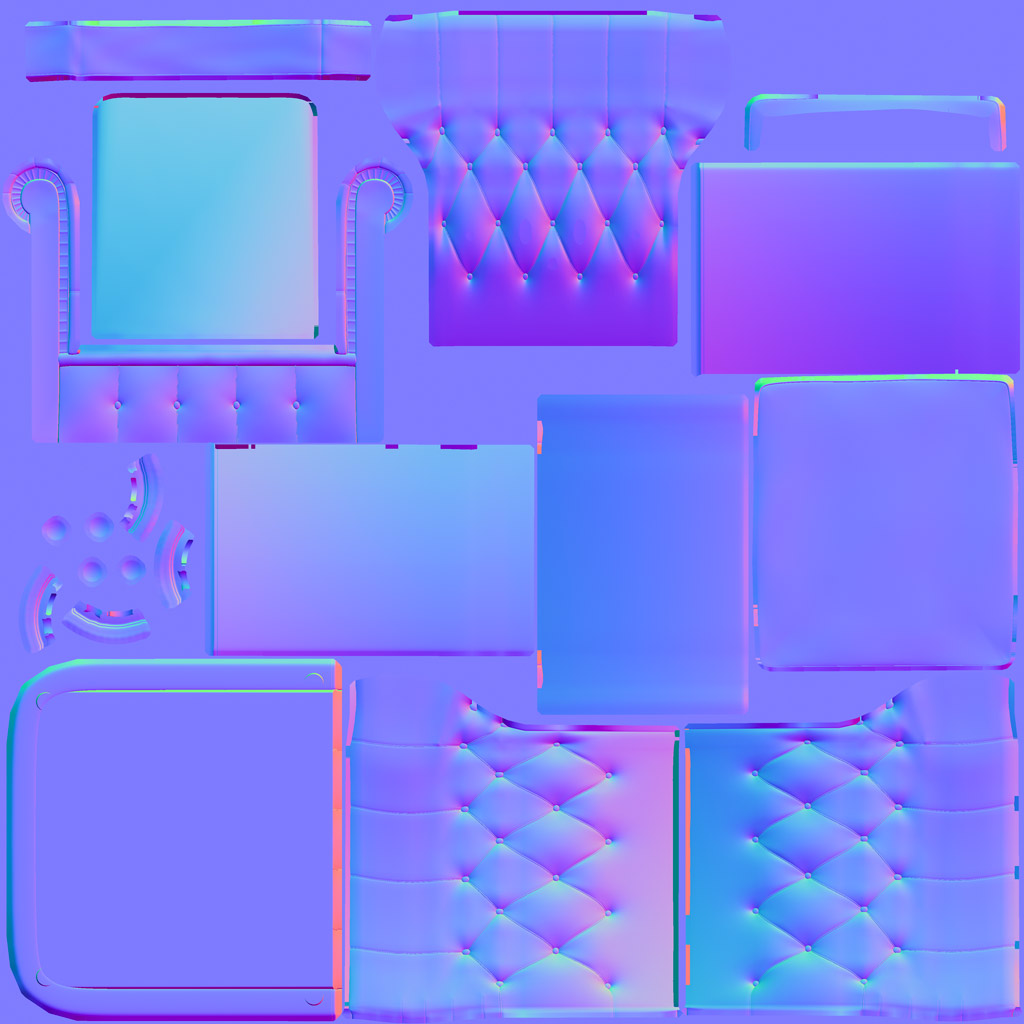
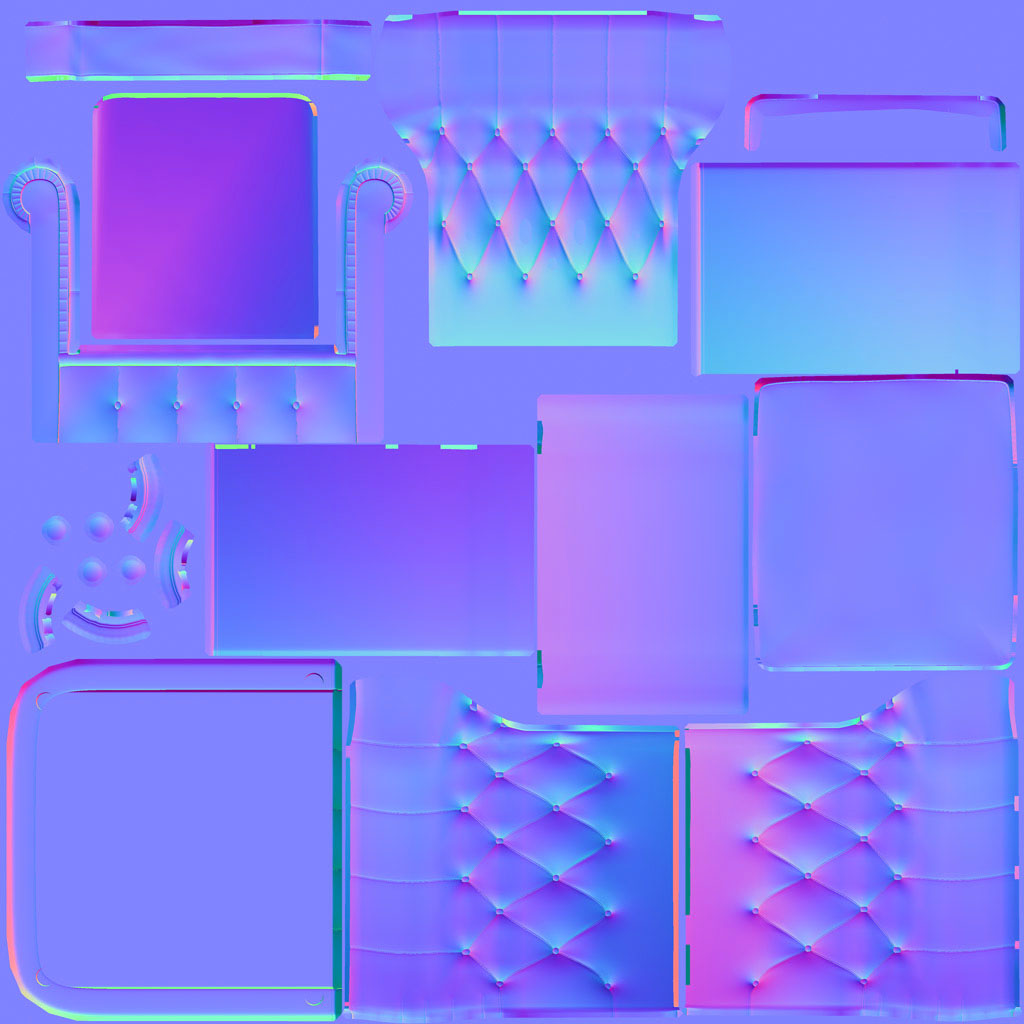
fix normal map added default material parameters

diff --git a/src/js/app/libs/room/Room.js b/src/js/app/libs/room/Room.js
@@ -30,7 +30,7 @@ export class Room {
        // this.hdrTexture = new TextureWrapper(new BABYLON.HDRCubeTexture("/assets/textures/skybox/room0.hdr", this.scene, 128));
      var skyTexture  =  new BABYLON.Texture("/assets/textures/skybox/room0.jpg", this.scene);
         skyTexture.coordinatesMode = BABYLON.Texture.FIXED_EQUIRECTANGULAR_MODE;
-        this.hdrTexture = new BABYLON.HDRCubeTexture("/assets/textures/skybox/room0.hdr", this.scene,256);
+        this.hdrTexture = new BABYLON.HDRCubeTexture("/assets/textures/skybox/room0.hdr", this.scene,256,false,true);
 
         this.hdrSkyboxMaterial = new BABYLON.StandardMaterial("skyBox", this.scene);
         this.hdrSkyboxMaterial.reflectionTexture = skyTexture;
@@ -43,16 +43,27 @@ export class Room {
         this.hdrSkybox.infiniteDistance = true;
 
         BABYLON.SceneLoader.ImportMesh("chair", "./assets/", "demo.babylon", this.scene, (newMeshes, particleSystems) =>{
-            console.log("mesh loaded");
-            newMeshes[0].material =  MaterialLoader.load("/assets/materials/chair",this.scene, this.hdrTexture);
+            this.defaultChairMaterial = {
+                bumpTexture:new BABYLON.Texture("./assets/materials/chair/normal.jpg",  this.scene,false, true, BABYLON.Texture.BILINEAR_SAMPLINGMODE),
+                lightmapTexture:new BABYLON.Texture("./assets/materials/chair/ao.jpg",  this.scene,false, true, BABYLON.Texture.BILINEAR_SAMPLINGMODE),
+                useLightmapAsShadowmap:true
+            };
+
+            newMeshes[0].material =  MaterialLoader.load("/assets/materials/wood1",this.scene, this.hdrTexture,this.defaultChairMaterial);
+            this.chair = newMeshes[0];
         });
 
         BABYLON.SceneLoader.ImportMesh("lion", "./assets/", "demo.babylon", this.scene, (newMeshes, particleSystems)=> {
-            newMeshes[0].material = MaterialLoader.load("/assets/materials/lion",this.scene, this.hdrTexture);
+            this.defaultLionMaterial = {
+                bumpTexture:new BABYLON.Texture("./assets/materials/lion/normal.jpg",  this.scene,false, true, BABYLON.Texture.BILINEAR_SAMPLINGMODE)
+            };
+            newMeshes[0].material = MaterialLoader.load("/assets/materials/lion",this.scene, this.hdrTexture,this.defaultLionMaterial);
+            this.lion = newMeshes[0];
         });
 
         BABYLON.SceneLoader.ImportMesh("tv", "./assets/", "demo.babylon", this.scene, (newMeshes, particleSystems)=> {
             newMeshes[0].material = MaterialLoader.load("/assets/materials/tv0",this.scene, this.hdrTexture);
+            this.tv = newMeshes[0];
         });
 
 /*
@@ -85,16 +96,30 @@ export class Room {
 
     }
 
+    updateLion(path)
+    {
+        this.lion.material = MaterialLoader.load(path,this.scene, this.hdrTexture,this.defaultLionMaterial);
+    }
+
+    updateChair(path)
+    {
+        this.chair.material = MaterialLoader.load(path,this.scene, this.hdrTexture,this.defaultChairMaterial);
+    }
 
     updateGround(path)
     {
         this.ground.material = MaterialLoader.load(path,this.scene, this.hdrTexture);
     }
 
+    updateTV(path)
+    {
+        this.tv.material = MaterialLoader.load(path,this.scene, this.hdrTexture);
+    }
+
     updateSkybox(path)
     {
 
-        var hdrTexture = new BABYLON.HDRCubeTexture(path+".hdr", this.scene, 128);
+        var hdrTexture = new BABYLON.HDRCubeTexture(path+".hdr", this.scene, 128,false,true);
         var skyTexture = new BABYLON.Texture(path+".jpg", this.scene);
         skyTexture.coordinatesMode = BABYLON.Texture.FIXED_EQUIRECTANGULAR_MODE;
 

diff --git a/src/js/app/views/Home/Home.vue b/src/js/app/views/Home/Home.vue
@@ -12,8 +12,44 @@
 
             <div class="nav-group">
                 <span class="title">Ground</span>
-                <span class="btn" v-on:click="setGround(0)">Ground 0</span>
-                <span class="btn" v-on:click="setGround(1)">Ground 1</span>
+                <span class="btn" v-on:click="setGround('wood0')">Wood 1</span>
+                <span class="btn" v-on:click="setGround('wood1')">Wood 2</span>
+                <span class="btn" v-on:click="setGround('whitelacquered')">White L</span>
+                <span class="btn" v-on:click="setGround('blacklacquered')">Black L</span>
+                <span class="btn" v-on:click="setGround('redlacquered')">Red L</span>
+                <span class="btn" v-on:click="setGround('fabric')">Fabric</span>
+            </div>
+
+            <div class="nav-group">
+                <span class="title">TV stand</span>
+                <span class="btn" v-on:click="setTV('wood0')">Wood 1</span>
+                <span class="btn" v-on:click="setTV('wood1')">Wood 2</span>
+                <span class="btn" v-on:click="setTV('whitelacquered')">White L</span>
+                <span class="btn" v-on:click="setTV('blacklacquered')">Black L</span>
+                <span class="btn" v-on:click="setTV('redlacquered')">Red L</span>
+                <span class="btn" v-on:click="setTV('fabric')">Fabric</span>
+            </div>
+
+            <div class="nav-group">
+                <span class="title">Lion</span>
+                <span class="btn" v-on:click="setLion('lion')">Rock</span>
+                <span class="btn" v-on:click="setLion('wood0')">Wood 1</span>
+                <span class="btn" v-on:click="setLion('wood1')">Wood 2</span>
+                <span class="btn" v-on:click="setLion('whitelacquered')">White L</span>
+                <span class="btn" v-on:click="setLion('blacklacquered')">Black L</span>
+                <span class="btn" v-on:click="setLion('redlacquered')">Red L</span>
+                <span class="btn" v-on:click="setLion('fabric')">Fabric</span>
+            </div>
+
+            <div class="nav-group">
+                <span class="title">Chair</span>
+                <span class="btn" v-on:click="setChair('chair')">new</span>
+                <span class="btn" v-on:click="setChair('wood0')">Wood 1</span>
+                <span class="btn" v-on:click="setChair('wood1')">Wood 2</span>
+                <span class="btn" v-on:click="setChair('whitelacquered')">White L</span>
+                <span class="btn" v-on:click="setChair('blacklacquered')">Black L</span>
+                <span class="btn" v-on:click="setChair('redlacquered')">Red L</span>
+                <span class="btn" v-on:click="setChair('fabric')">Fabric</span>
             </div>
 
         </div>

diff --git a/src/js/app/libs/room/MaterialLoader.js b/src/js/app/libs/room/MaterialLoader.js
@@ -3,15 +3,18 @@ import Axios from 'axios';
 
 export default {
 
-    load(path,scene,skyWrapper)
+    load(path,scene,reflectionTexture,defaultValues)
     {
-        console.log("load material ",path);
         var material = new BABYLON.PBRMaterial(path, scene);
-        //skyWrapper.addMaterial(material,"reflectivityTexture");
-        material.reflectionTexture = skyWrapper;
+        material.reflectionTexture = reflectionTexture;
+        if(defaultValues == null) defaultValues = {};
+        for(var i in defaultValues)
+        {
+            material[i] = defaultValues[i];
+        }
         Axios.get(path+"/material.json")
             .then(response=>{
-                console.log("json loaded",response.data);
+               var scale = response.data.scale || 1;
                 var props = response.data.props;
                 for(var i in props)
                 {
@@ -21,6 +24,7 @@ export default {
                     {
                         case "texture":
                             material[i] = new BABYLON.Texture(path+"/"+value,  scene,false, true, BABYLON.Texture.BILINEAR_SAMPLINGMODE);
+                            material[i].uScale = material[i].vScale = scale;
                             break;
                         case "color":
                             if(value.length == 4) material[i] = new BABYLON.Color4(value[0], value[1], value[2],value[3]);

diff --git a/src/js/app/views/Home/Home.js b/src/js/app/views/Home/Home.js
@@ -36,10 +36,24 @@ export default {
             this.room.updateSkybox("/assets/textures/skybox/room"+index)
         },
 
-        setGround(index)
+        setGround(materialName)
         {
-            var grounds = ["/assets/materials/wood0","/assets/materials/wood1"]
-            this.room.updateGround(grounds[index]);
+            this.room.updateGround("/assets/materials/"+materialName);
+        },
+
+        setTV(materialName)
+        {
+            this.room.updateTV("/assets/materials/"+materialName);
+        },
+
+        setLion(materialName)
+        {
+            this.room.updateLion("/assets/materials/"+materialName);
+        },
+
+        setChair(materialName)
+        {
+            this.room.updateChair("/assets/materials/"+materialName);
         }
 
     }

diff --git a/src/js/app/views/Home/Home.scss b/src/js/app/views/Home/Home.scss
@@ -23,12 +23,21 @@
       background-color: rgba(0,0,0,0.6);
       margin-bottom: 5px;
 
+      @include  small-device{
+        font-size: 9px;
+        padding: 3px;
+      }
+
     }
     .btn{
       padding: 4px;
       background-color: #CC0000;
       margin: 3px;
       cursor: pointer;
+
+      @include small-device{
+        padding: 2px;
+      }
     }
   }
 }

diff --git a/src/index.html b/src/index.html
@@ -4,6 +4,7 @@
     <meta charset="utf-8">
     <title>BBS boilerplate front-end</title>
     <link rel="stylesheet" href="assets/css/all.css?v={{version}}">
+    <meta name="viewport" content="initial-scale=1, maximum-scale=1">
   </head>
   <body>
     <div id="app"></div>
